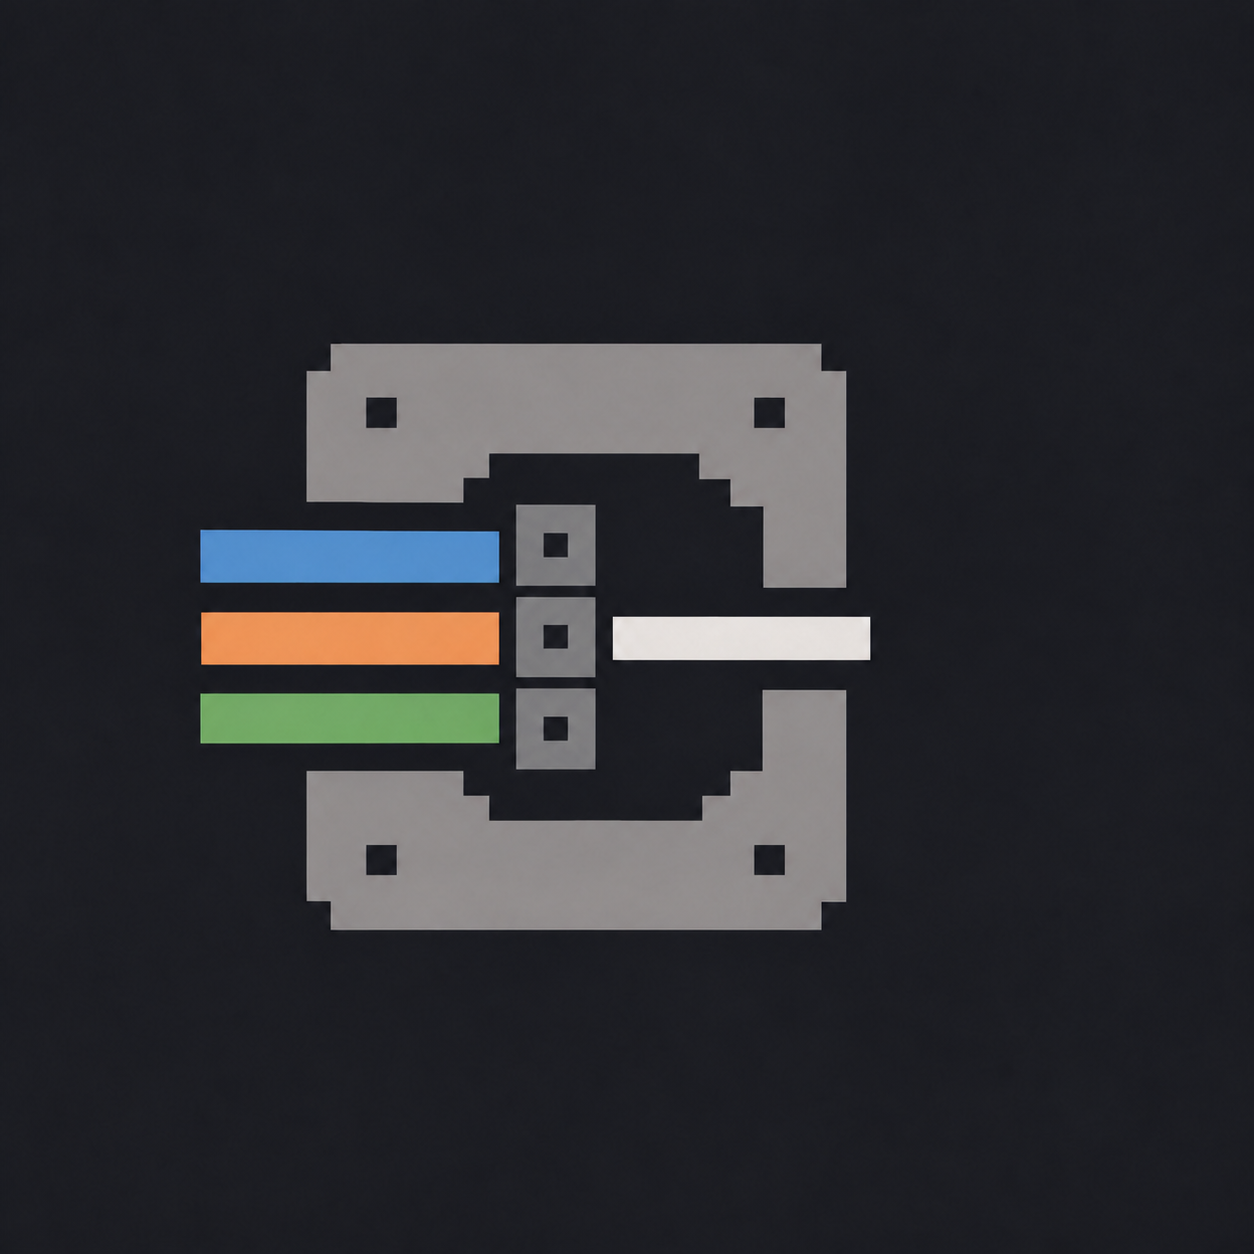
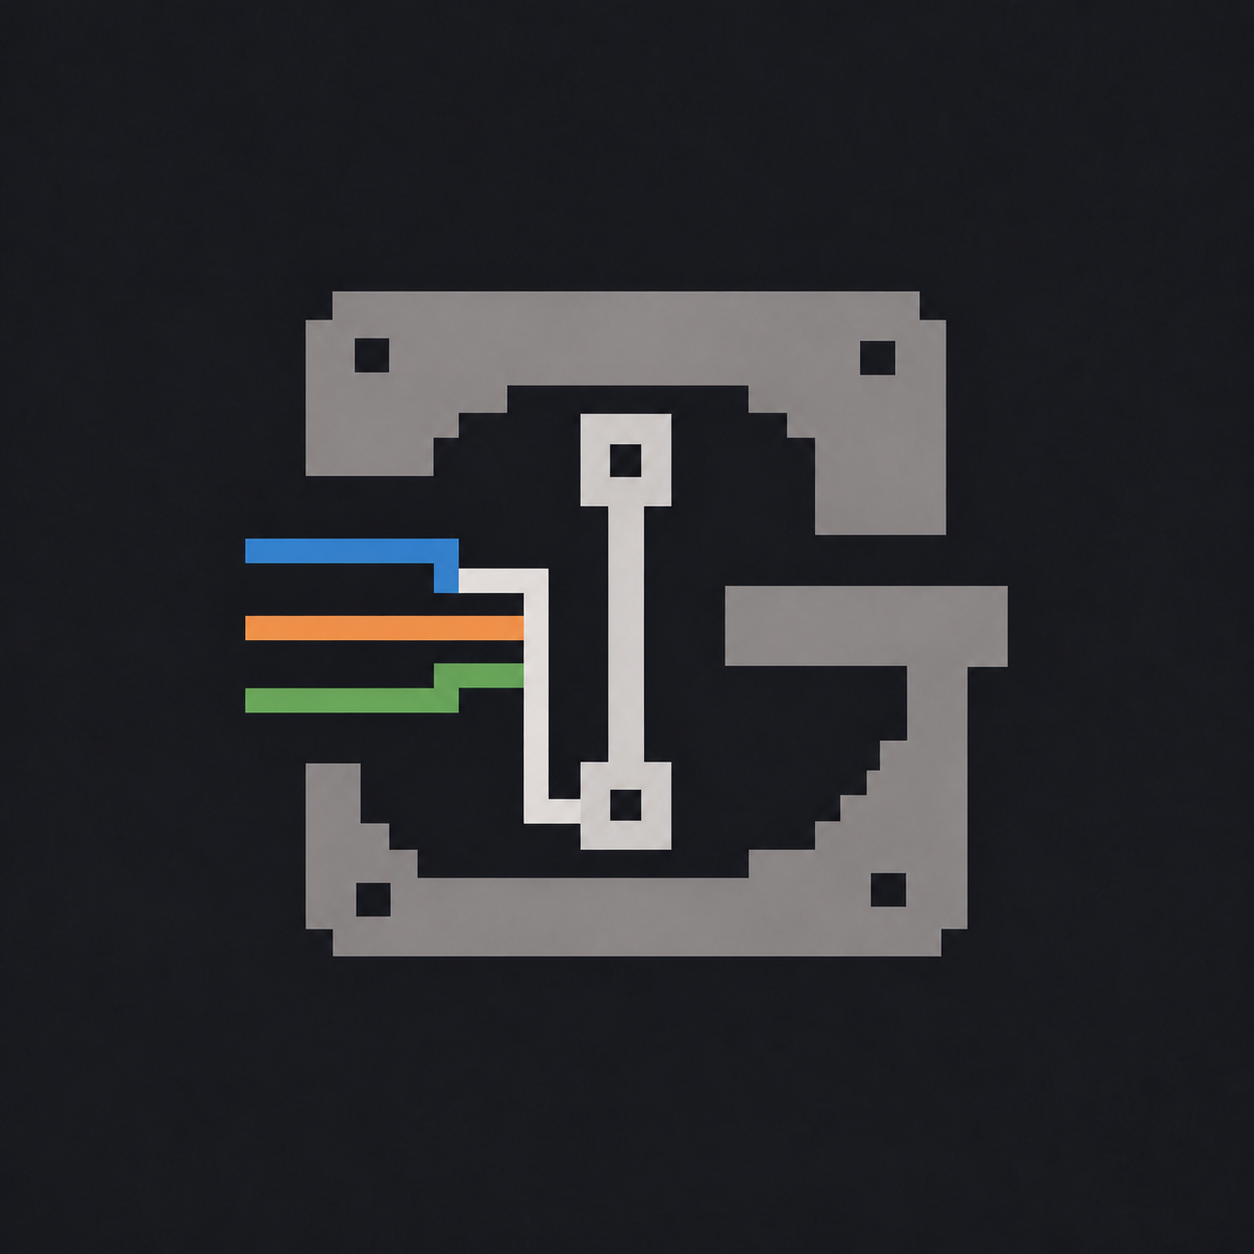
docs: 대표 아이콘에 jig 문자 은유를 반영
- 수렴 경로, 정렬 핀, 외곽 지그가 각각 `J`, `I`, `G`로 읽히는 픽셀 아이콘을 제공합니다.
- 영문·한글 README의 대체 텍스트가 새 아이콘 의미를 설명합니다.

Changed region(s): [[0.1555, 0.2177, 0.8086, 0.7775]]

diff --git a/README.ko.md b/README.ko.md
@@ -1,7 +1,7 @@
 # jig
 
 <p align="center">
-  <img src="docs/assets/jig-icon-no-package.png" width="160" alt="jig 프로젝트 아이콘: 세 에이전트 작업 흐름을 기계식 지그로 정렬합니다">
+  <img src="docs/assets/jig-icon-no-package.png" width="160" alt="jig 프로젝트 아이콘: 수렴 경로, 정렬 핀, 지그 프레임이 J, I, G를 은유합니다">
 </p>
 
 **같은 자리에서, 매번 같게** — 지그는 작업물을 잡아 매번 같은 자리에서 잘리게 합니다. 이 지그는 저장소 운영 절차를 잡아, 어느 프로젝트에서 어느 AI 에이전트 CLI를 쓰든 같은 절차가 돌게 합니다.

diff --git a/README.md b/README.md
@@ -1,7 +1,7 @@
 # jig
 
 <p align="center">
-  <img src="docs/assets/jig-icon-no-package.png" width="160" alt="jig project icon: three agent workflows aligned by a mechanical jig">
+  <img src="docs/assets/jig-icon-no-package.png" width="160" alt="jig project icon: a converging path, alignment pin, and clamp imply J, I, and G">
 </p>
 
 **same cut, every project** — a jig holds the work so every cut lands the same. This one holds your repository procedures so every project and every AI agent CLI runs them the same way.
